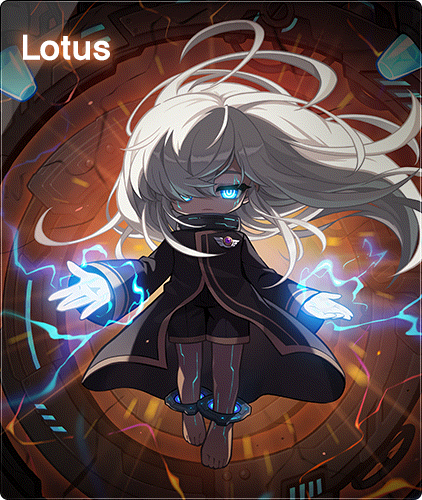
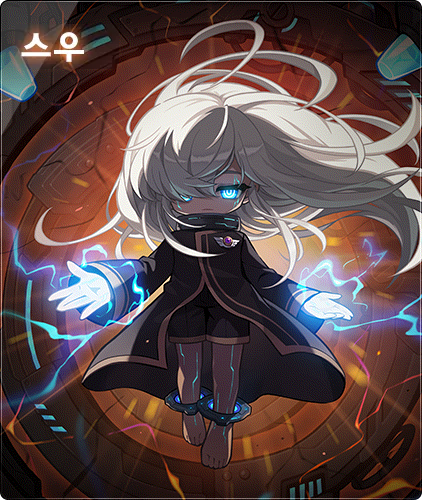
보스 정보 카드 스우를 새 일러스트 한글판으로
- 새 일러스트의 한글판은 압축 webp밖에 없어, 그림은 GMS 게임 PNG를 그대로 두고 왼쪽 위 이름 글자 칸만 그 webp에서 가져와 합침
- 카드 그림 주소 v를 올려 바뀐 그림이 바로 보이게

Changed region(s): [[0.0308, 0.03, 0.2773, 0.15]]

diff --git a/GMS_WEEK_BOSS/bosshp.js b/GMS_WEEK_BOSS/bosshp.js
@@ -12,7 +12,7 @@ const BOSS_IMG_EXTRA = { '벨로나': 'images/bosses/Bellona.png' };
 // 위와 같은 보스의 카드 그림 파일 이름. images/official/boss_card/<이름>.png
 const BOSS_CARD_EXTRA = { '벨로나': 'bellona' };
 // 카드 그림을 같은 파일 이름으로 바꿀 때 서비스 워커가 옛 그림을 내주지 않도록 v를 올린다
-const _bhpCardSrc = id => `images/official/boss_card/${id}.png?v=20261031b`;
+const _bhpCardSrc = id => `images/official/boss_card/${id}.png?v=20261031c`;
 const bossHPActiveDiffs = {};
 const busChecked = new Set(); // 버스 참조에 추가된 보스명
 const busDiffs   = {};        // 버스 패널 전용 난이도 선택
@@ -278,7 +278,8 @@ function renderBossHPTable() {
      - KMS v.389 그림 21장: 서버마다 번호가 달라 GMS 그림과 글자 아래쪽 모양을 대조해 짝지었다
      - 벨로나·림보·발드릭스·최초의 대적자·찬란한 흉성·유피테르: KMS v.389 뒤에 나온 보스라 메이플 위키 Boss UI 파일 역사에 남은
        KMS 한글판을 지수가 받아 왔다. 글자 아래 그림이 GMS 게임 그림과 픽셀까지 같다, 찬란한 흉성만 조금 다르다
-     - 스우: KMS v.389 그림은 리뉴얼 전 옛 일러스트라 새 일러스트인 GMS 영문 그림. 새 그림의 한글판을 구하면 바꾼다
+     - 스우: KMS v.389 그림은 리뉴얼 전 옛 일러스트다. 새 일러스트의 한글판은 지수가 구한 압축 webp뿐이라, 그림은 GMS 게임 PNG를 그대로 두고
+       왼쪽 위 이름 글자 칸 x15~119·y24~69만 그 webp에서 가져와 합쳤다
      - 아케치·노히메: KMS에 없는 일본 보스라 JMS v.444 일본어 그림
      boss.img는 드랍 팝업이 GIF를 찾는 이름으로 쓰므로 그대로 두고 카드 그림만 따로 든다 */
   BOSS_DATA.forEach(bd => {

diff --git a/GMS_WEEK_BOSS/index.html b/GMS_WEEK_BOSS/index.html
@@ -926,7 +926,7 @@
 <script src="liberation.js?v=20261030b"></script>
 <script src="starforce_sim.js?v=20261027b"></script>
 <script src="cube.js?v=20261030c"></script><script src="familiar.js?v=20261030a"></script><script src="soulsim.js?v=20261027f"></script><script src="polish.js?v=20261030a"></script><script src="mixdye_layer.js?v=20261028a"></script><script src="mixdye.js?v=20261030b"></script><script src="data_frontier.js?v=20260825g"></script><script src="frontier.js?v=20261030b"></script><script src="meundi.js?v=20261029a"></script><script src="victorypose.js?v=20261030b"></script><script src="mysticseal.js?v=20261031a"></script><script src="myutil.js?v=20261031i"></script>
-<script src="addoption.js?v=20261030a"></script><script src="bosshp.js?v=20261031b"></script>
+<script src="addoption.js?v=20261030a"></script><script src="bosshp.js?v=20261031c"></script>
 
 <script src="dailytasks.js?v=20261027t"></script>
 <script src="wantchannel.js?v=20261027b"></script>
